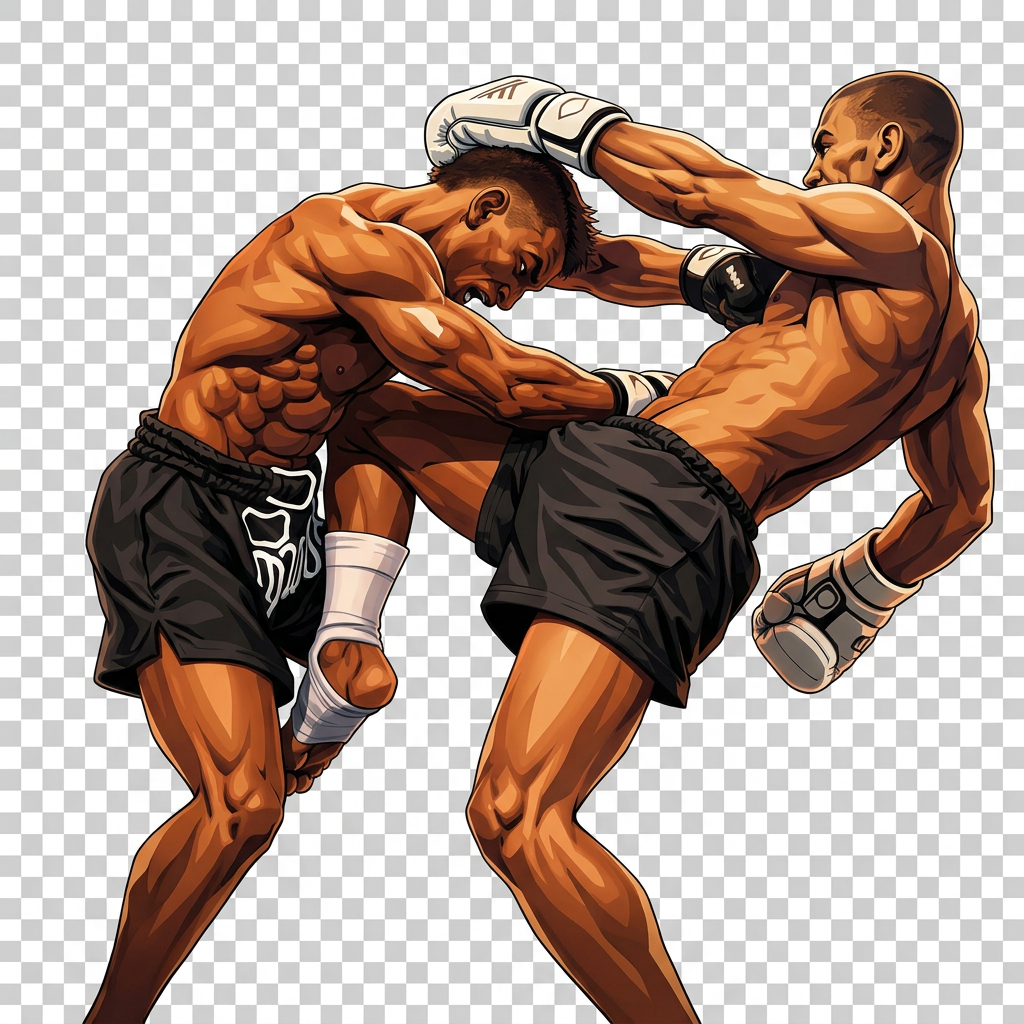
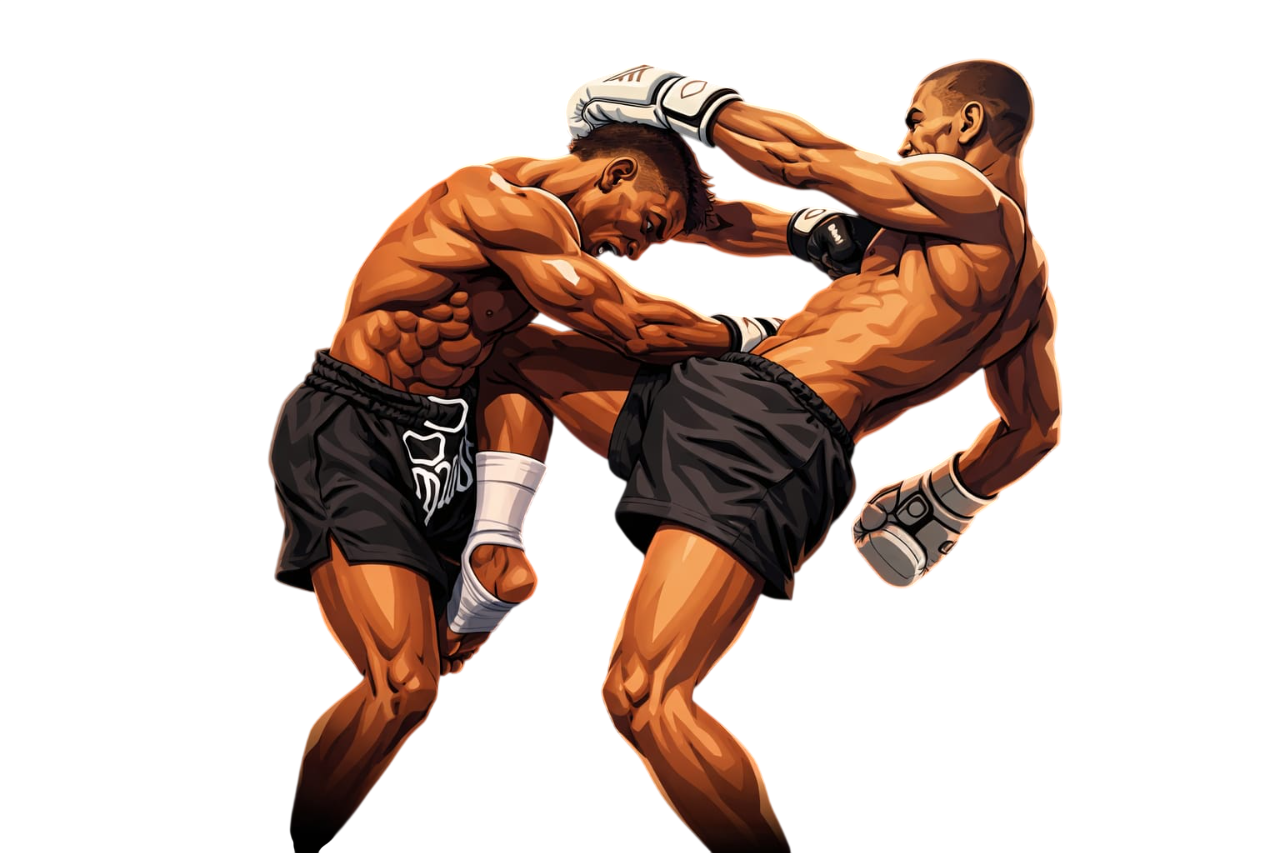
Changes

diff --git a/src/pages/Home.tsx b/src/pages/Home.tsx
@@ -6,7 +6,7 @@ import { Swords, Users, Bot, Trophy, Gem, Star, Shield, Zap, X, PlayCircle } fro
 import FeaturedGameCard from "@/components/FeaturedGameCard";
 import { ChessIcon, DominoIcon, BackgammonIcon, CheckersIcon, LudoIcon } from "@/components/GameIcons";
 import PyramidLogo from "@/components/PyramidLogo";
-import predictionsFighters from "@/assets/predictions-fighters-gold.png";
+import predictionsFighters from "@/assets/predictions-fighters.png";
 // import { MobileAppPrompt } from "@/components/MobileAppPrompt"; // Temporarily disabled
 import { usePrivySolBalance } from "@/hooks/usePrivySolBalance";
 import { AddSolCard } from "@/components/AddSolCard";
